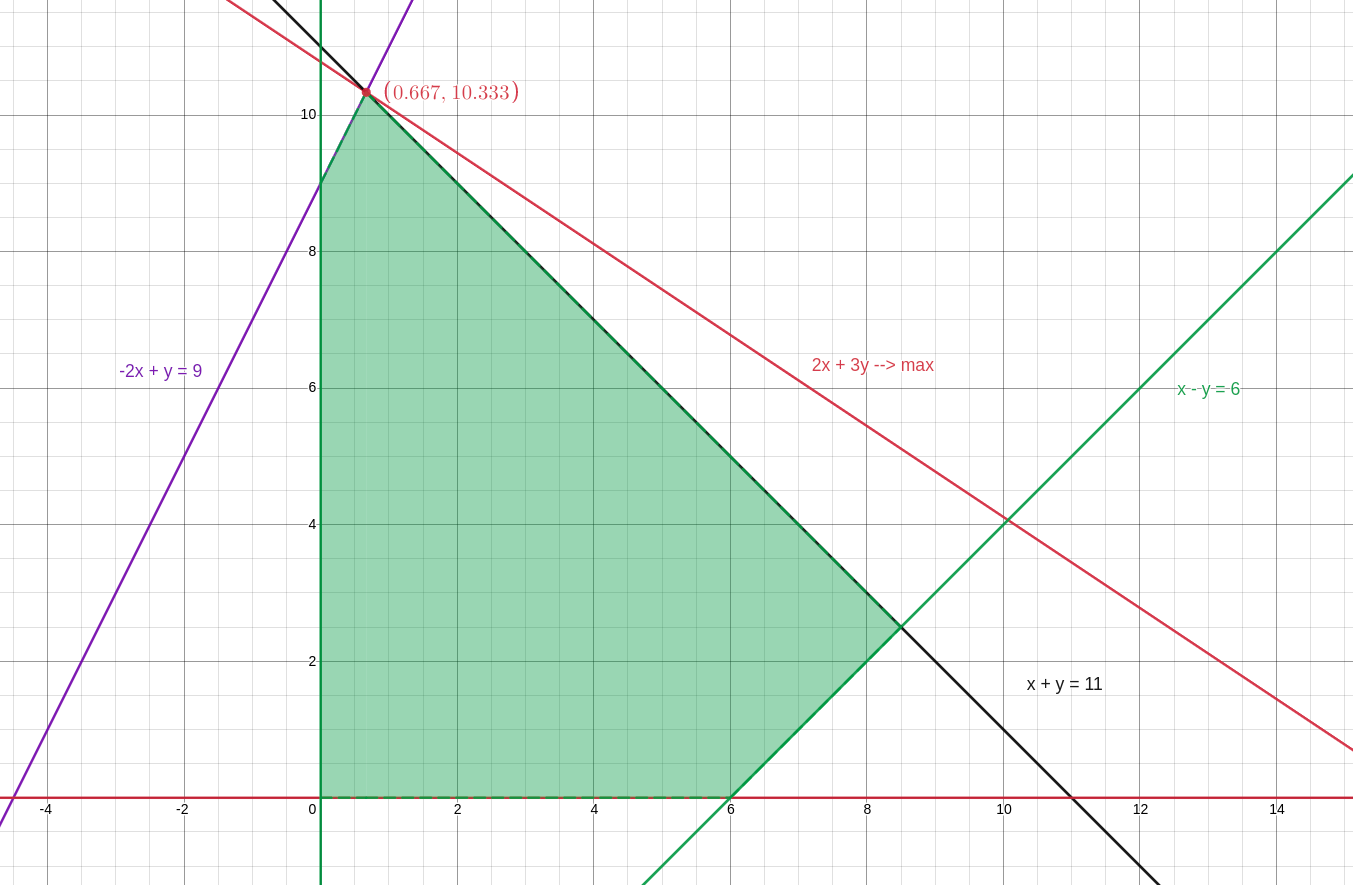
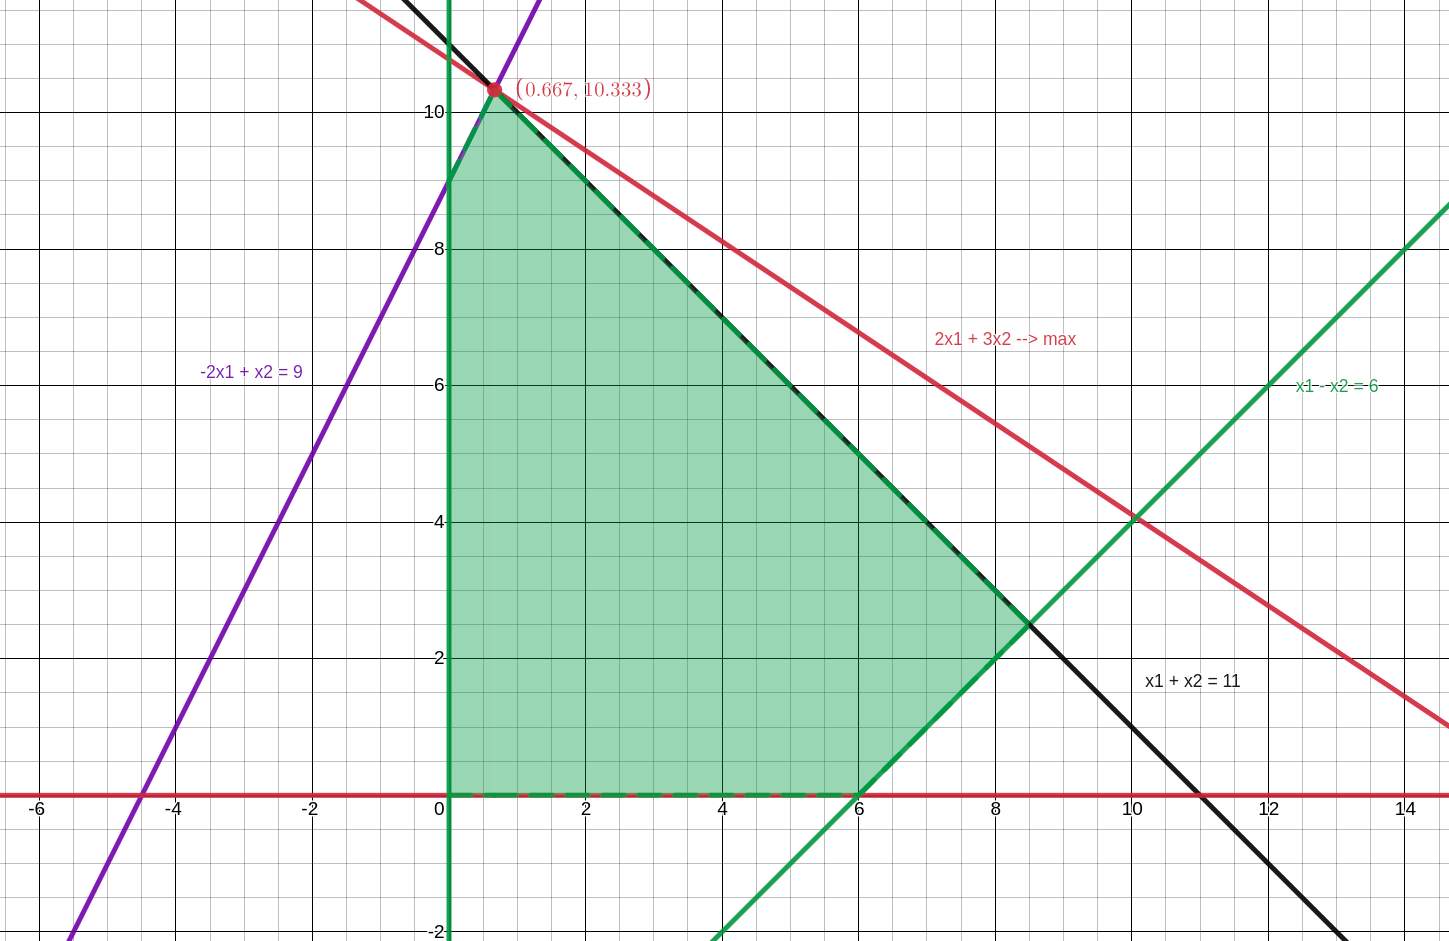
add: graph method

diff --git a/src/docs/course-1/semester-2/op-analysis/calc2/text.md b/src/docs/course-1/semester-2/op-analysis/calc2/text.md
@@ -24,4 +24,9 @@ $$ x_i \geq 0, i= 1,2 $$
 
 ### Графічний метод
 
+<p align="center" width="100%">
+    <img width="70%" src="./graph.png"> 
+</p>
+
+Побудуємо графіки наступних прямих: $x_1 - x_2 =6, -2 x_1 + x_2  = 9, x_1 + x_2 = 11, x_1=0, x_2=0 $. Заштрихуємо многокутник, утворений ціми прямим, який є простіром рішень задачі. Проводячи прямі через вершини прямокутника, парарельні прямій $2x_1+3x_2=0$, отримаємо точку $x_1 \approx 0.667, x_2 \approx 10.333,$ у якій значення цільової функціїї максимальне.
 
